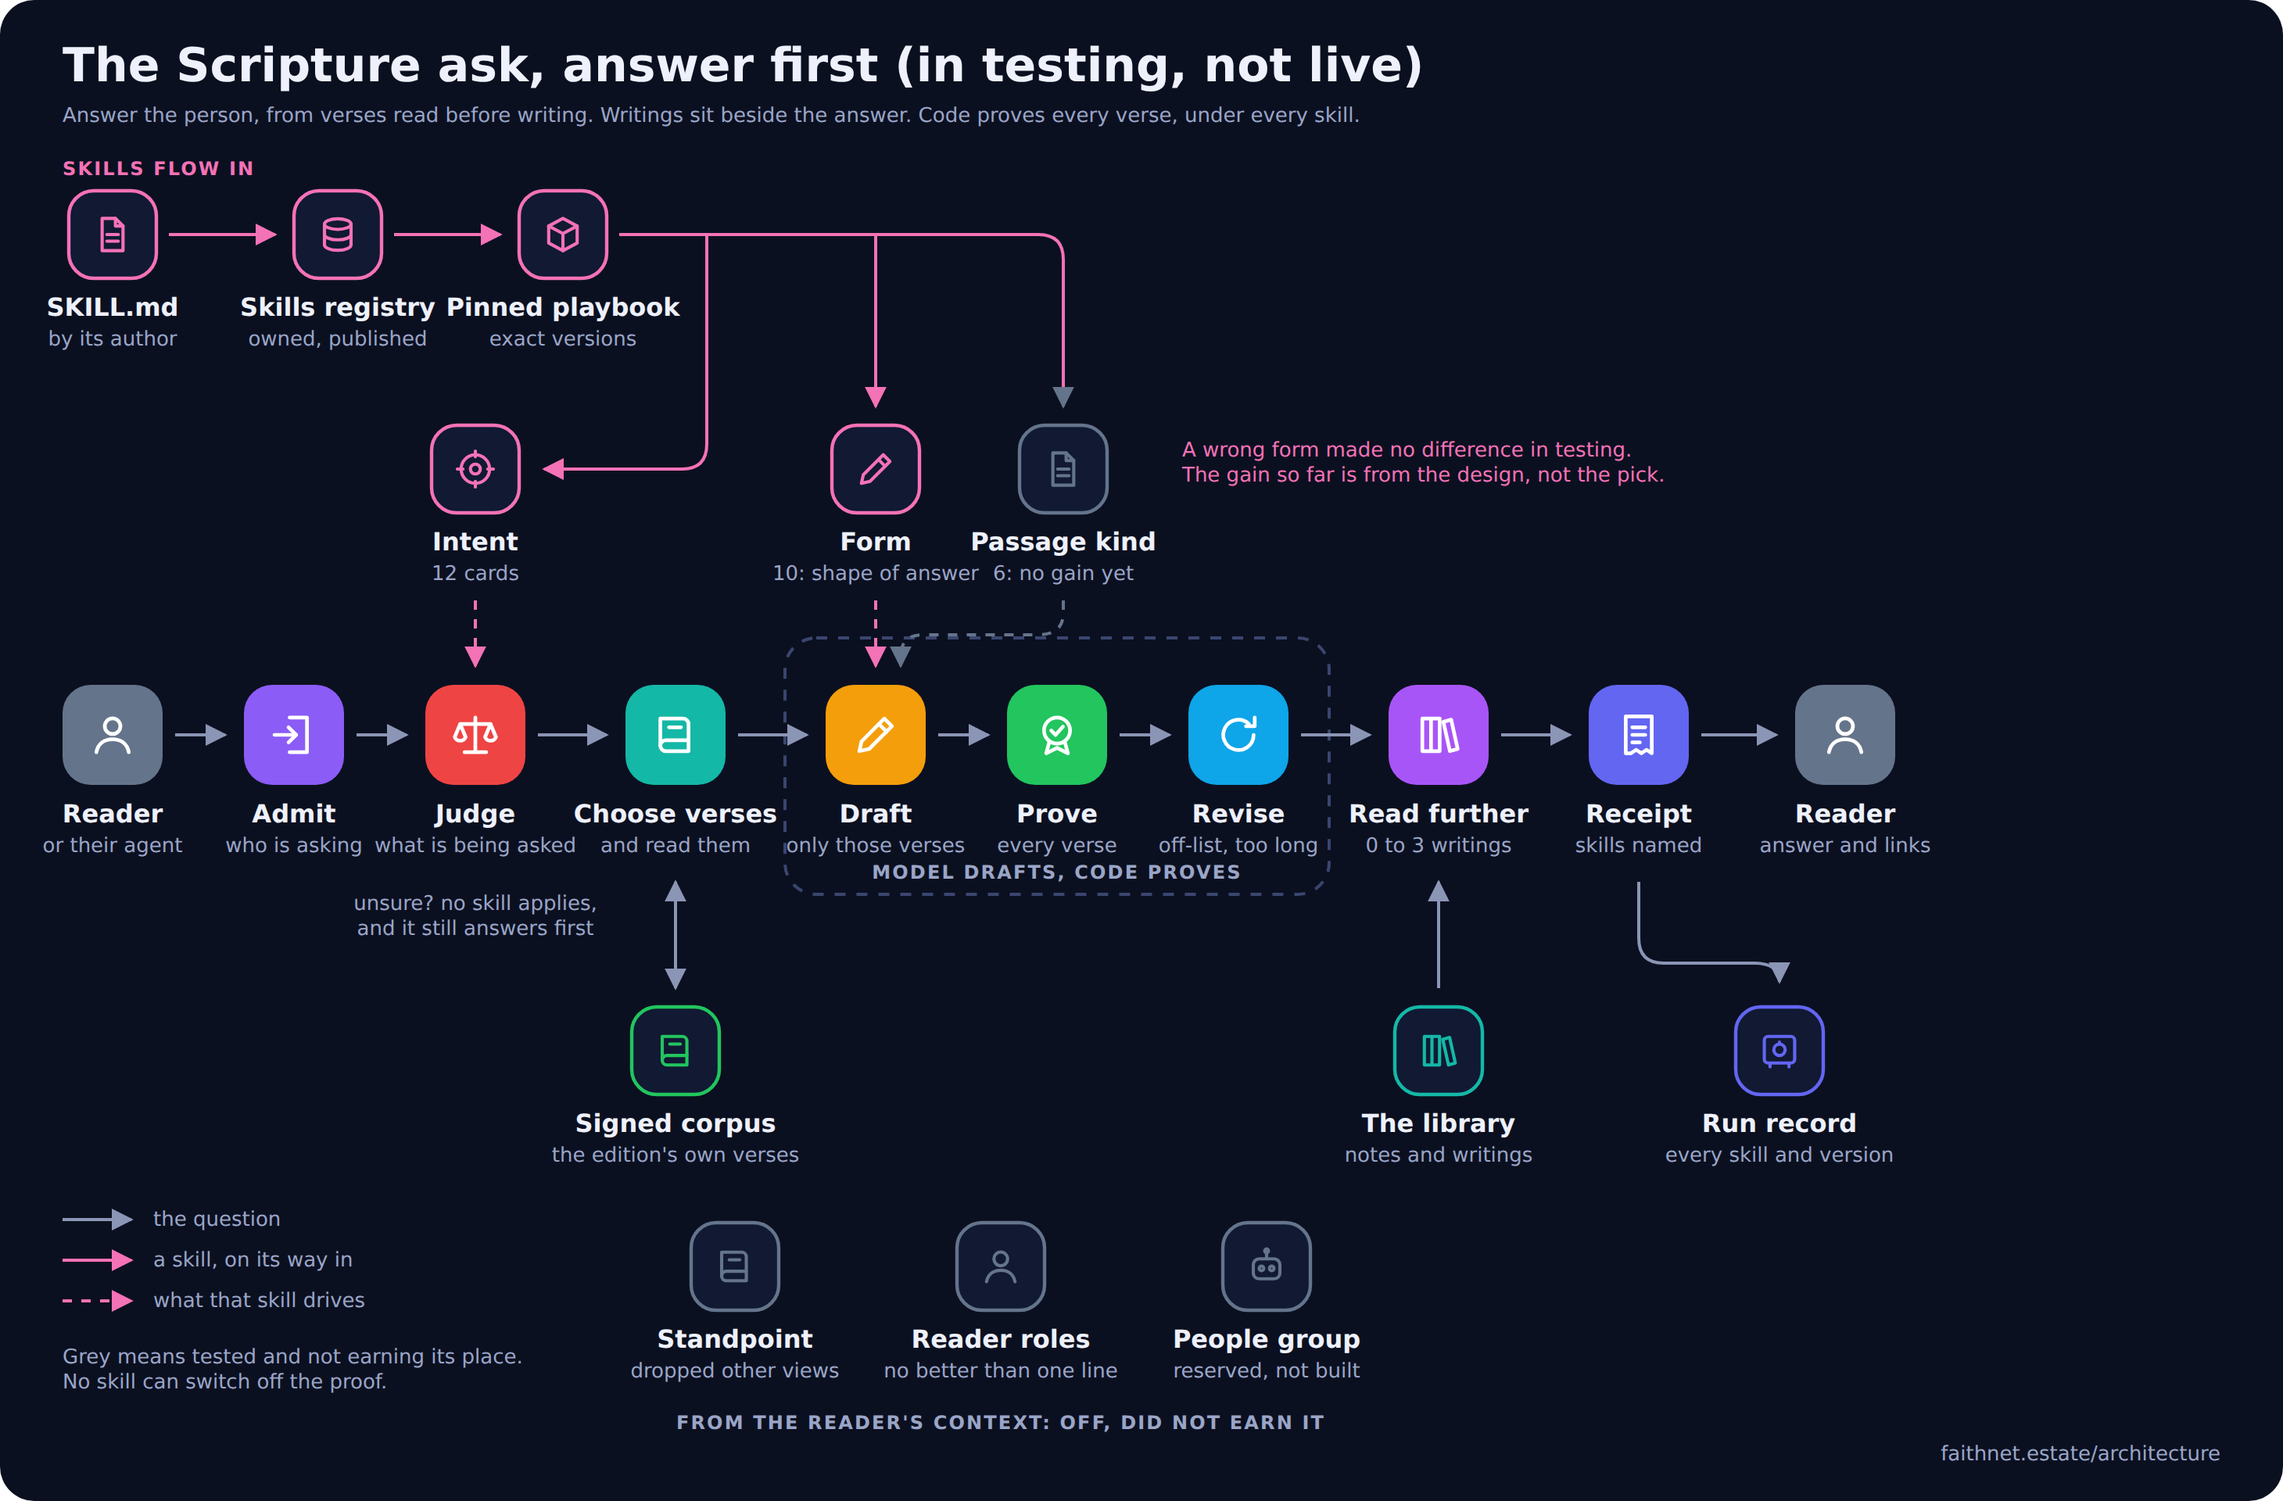
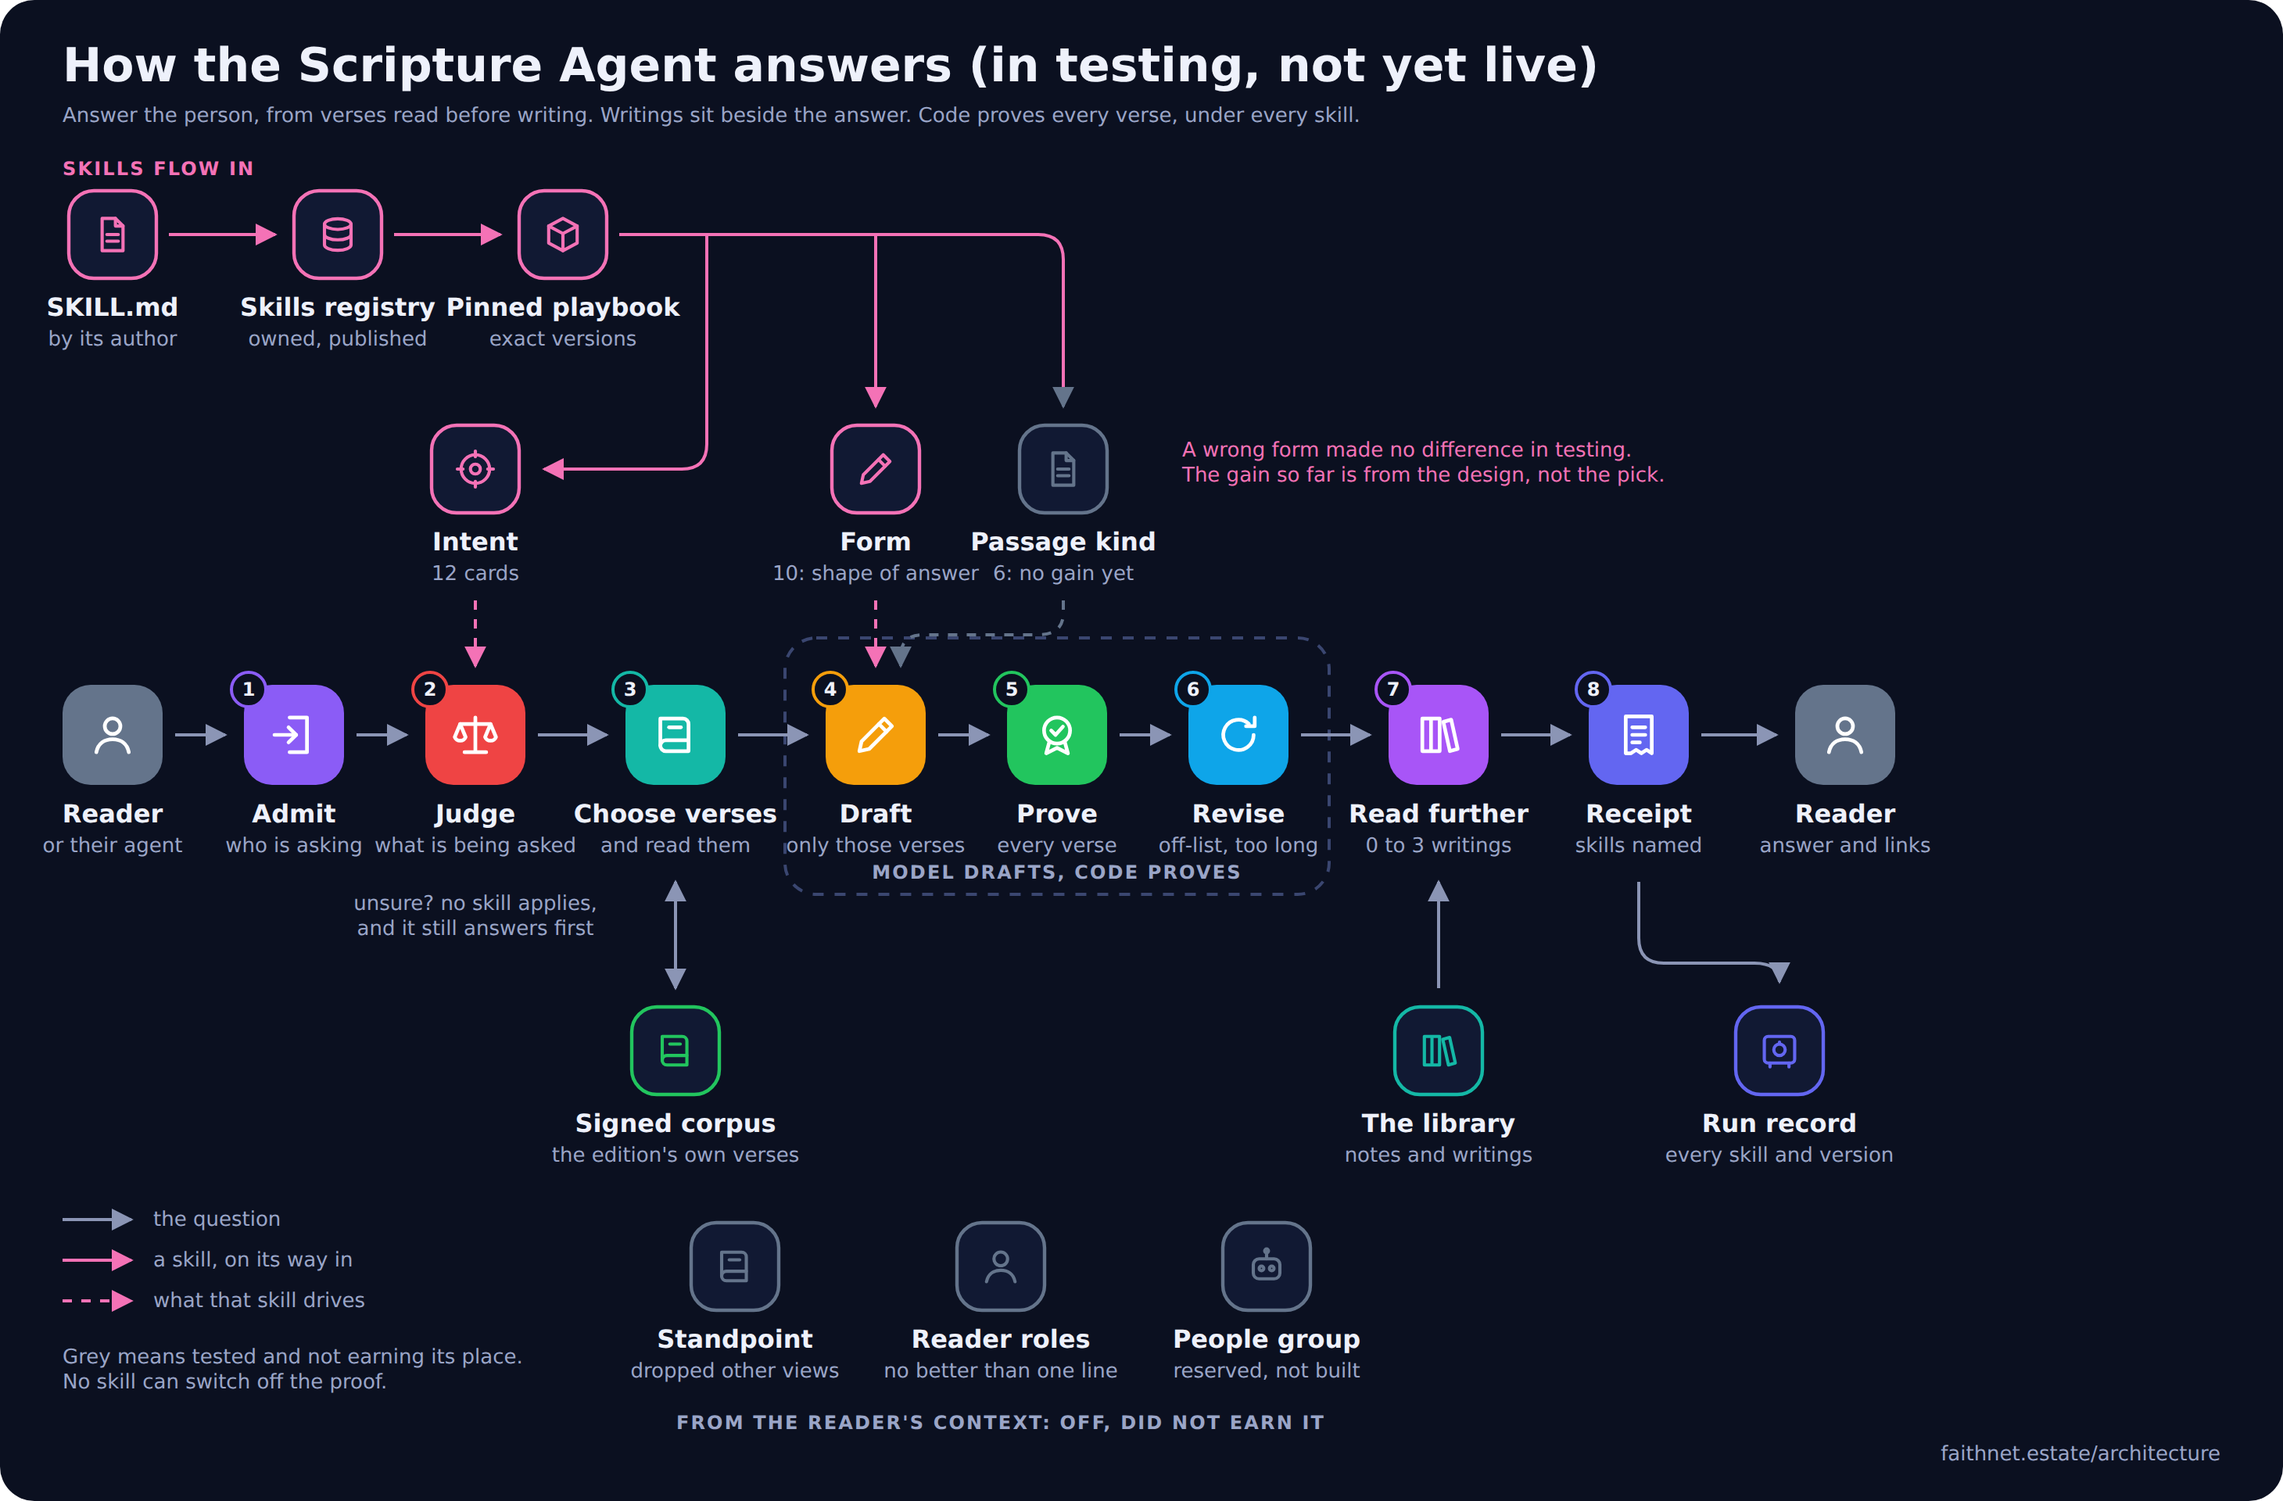
estate architecture: the Scripture post leads with the answer-first design and its eight steps, labelled in testing; what readers get today moves below it

diff --git a/apps/estate/src/architecture.ts b/apps/estate/src/architecture.ts
@@ -389,7 +389,106 @@ const SCRIPTURE_STEPS: Step[] = [
   },
 ];
 
+
+const ANSWER_ALT =
+  "A flow diagram of the design in testing, not yet live. A question goes through admission to a judge, which works out what is being asked. The verses that carry the answer are chosen and read from the signed corpus before anything is written. A model drafts, citing only those verses, and code proves every one. The draft goes back once if it cites another verse or runs long. Up to three writings that truly bear on the answer are chosen to sit beside it, and a receipt names the skills used. Skills come from the registry through a pinned playbook. Passage kinds, standpoints and reader roles are in grey: tested and not earning their place. A people-group skill is reserved and not built.";
+const inherited = (id: string, at: [number, number], over: Partial<Step> = {}): Step => ({ ...SCRIPTURE_STEPS.find((x) => x.id === id)!, at, ...over });
+const ANSWER_STEPS: Step[] = [
+  inherited('admit', [188, 470]),
+  {
+    id: 'judge', name: 'Judge', color: '#ef4444', at: [304, 470],
+    summary: 'What is the reader asking for? That chooses the skill, or none.',
+    why: 'A definition, a question about a verse, a request for practical help and a question about another religion want different answers. The judge reads the question before anything else, so the rest of the run knows what it is for.',
+    what: [
+      'One call to a small model reads the question against twelve intent cards from the playbook and gives a probability for each, and for "none". Each card names a form, which is the shape of the answer.',
+      'Code applies the rule. A clear pick supplies its form. If the judge is unsure, no skill applies and the question still runs answer first.',
+      'A reader with a verse open still goes to the short verse companion, by a rule in code, with no judge.',
+      'In testing the picks looked sensible, but a deliberately wrong skill did about as well. So the gains so far come from the design around the pick, and this step is still earning its place.',
+    ],
+    where: [SCRIPTURE, 'Source: <code>src/harness/intent-stage.ts</code> and <code>intent-rule.ts</code>. The judge is <code>selectByJudgment</code> from <code>@agenticprimitives/orchestration</code>, the same one the agent harness uses.'],
+    by: 'A small model chooses. A rule in code accepts.',
+    reads: ['The question.', 'The intent cards.'],
+    leaves: ['<code>intentStage</code>: every probability, the pick, and each skill\'s version and commitment.'],
+    stops: ['A failed call or an unreadable registry is a hold. The question is still answered.'],
+  },
+  {
+    id: 'verses', name: 'Choose verses', color: '#14b8a6', at: [432, 470],
+    summary: 'The passages that carry the answer, read before anything is written.',
+    why: 'Written from memory, answers said things about verses that the verses do not say. Choosing the verses first and handing the writer their real text took errors from 21 to 4 in a 40-question pilot. Choosing them is also a large part of what makes an answer good.',
+    what: [
+      'A small model chooses two to four passages a careful teacher would open to. It sees what search found, and may add others. Sharing a word with the question does not qualify a verse.',
+      'Code resolves each reference and fetches its text from the signed corpus, in the reader\'s edition.',
+      'A reference that does not resolve is dropped and recorded.',
+    ],
+    where: [SCRIPTURE, 'Source: <code>src/harness/answer-links.ts</code> (<code>chooseVerses</code>).', LIBRARY],
+    by: 'A small model chooses. Code fetches and verifies.',
+    reads: ['The question.', 'The passages found by meaning.', 'The signed corpus.'],
+    leaves: ['<code>chosenVerses</code>: each passage and why it was chosen, and any that did not resolve.'],
+    stops: ['If this step fails, the writer is not restricted, and the proof still checks every reference.', 'At most ten verses are read.'],
+  },
+  {
+    id: 'draft', name: 'Draft', color: '#f59e0b', at: [560, 470],
+    summary: 'Answer the person, from those verses.',
+    why: 'Our answers used to read as reports on whatever search returned. A plain question got a study of the sources, and one question was reinterpreted because of what was found. The writer now answers what was asked, as a knowledgeable teacher would to a friend.',
+    what: [
+      'The writer takes the question in its plain meaning, gives the answer in the first sentence, then the few things most worth knowing. It takes a clear position, and uses what is well established in Scripture and Christian teaching.',
+      'It may cite only the verses chosen, and must not say a verse says more than its words do.',
+      'It does not mention sources or what it was given, and adds no study exercise and no closing summary.',
+      'The chosen form sets the shape of the answer: a definition, counsel with steps, a short list of verses.',
+    ],
+    where: [SCRIPTURE, 'Source: <code>src/harness/draft-prove.ts</code> (<code>ANSWER_FIRST</code>).'],
+    by: 'One model call.',
+    reads: ['The question.', 'The chosen verses, in the edition\'s own words.', 'The chosen form.'],
+    leaves: ['The draft.'],
+    stops: ['A draft cut off by the output limit fails the run and is not shown.'],
+  },
+  inherited('prove', [676, 470]),
+  {
+    id: 'revise', name: 'Revise', color: '#0ea5e9', at: [792, 470],
+    summary: 'Back to the writer when code finds a problem.',
+    why: 'The writer does not reliably follow what it is only told. It ran well past the length it was given. Code can see these failures, so code sends them back.',
+    what: [
+      'The draft goes back once if the proof found a problem, if it cites a verse that was not chosen, if it talks about what it was supplied, or if it runs well over length.',
+      'If a quoted word is still not in the verse it cites, one more call deals with that alone.',
+      'A revision is proved again, and kept only if it is no worse.',
+    ],
+    where: [SCRIPTURE, 'Source: <code>src/harness/draft-prove.ts</code> and <code>answer-links.ts</code>.'],
+    by: 'A model call, only when needed. The decision to keep it is code.',
+    reads: ['The problems found.', 'The cited verses\' own text.'],
+    leaves: ['<code>revised</code> and <code>wordRepair</code>: the problems before and after, and whether the change was kept.'],
+    stops: ['What still fails is stated on the receipt.'],
+  },
+  {
+    id: 'further', name: 'Read further', color: '#a855f7', at: [920, 470],
+    summary: 'Up to three writings that truly bear on the answer, or none.',
+    why: 'The library is what this agent has that others do not, but it was crowding the answer. Moved beside the answer, a writing can be chosen against what the answer actually says, and given a reason.',
+    what: [
+      'After the answer is proved, a small model looks at the writings found and chooses at most three that are truly about what was asked, each with one line on what the reader will find there.',
+      'None is an acceptable result: an unrelated link is worse than no link.',
+      'Neither the writer nor the proof depends on them. In the pilot, 4 of 85 chosen writings were graded off-topic.',
+    ],
+    where: [SCRIPTURE, 'Source: <code>src/harness/answer-links.ts</code> (<code>chooseWritings</code>).', LIBRARY],
+    by: 'A small model.',
+    reads: ['The question and the answer.', 'The writings found, with their excerpts.'],
+    leaves: ['<code>readFurther</code>: each writing, where to find it and why.'],
+    stops: ['If this step fails, the answer simply has no list.'],
+  },
+  inherited('receipt', [1048, 470], { what: [
+    'Every answer carries a run manifest (<code>ask-run/2</code>): the run\'s id, the edition, the configuration and its hash, and the versions of the code, the policy and the writer. The question is recorded as a hash.',
+    'With it come the signed citations, the proof, the judge\'s choice and each skill\'s version and commitment, the verses chosen and why, what was revised, the cost, and the time each stage took.',
+    "The run is kept at the agent, and its provenance is written to the agent's vault. Anyone can check a citation at <code>/verify</code>.",
+  ] }),
+];
+
 const SCRIPTURE_BODY = `
+<h2>Where this stands</h2>
+<p>As of 5 November 2026, the picture and steps above are the design we are testing. They are not yet what answers readers. A 300-question run on fresh questions is under way, and the design goes live only if it holds up.</p>
+
+<h2>What readers get today</h2>
+<p>Today's path reads what it holds first and writes from that. It has ten steps: admit, route, choose a plan, gather, gate, draft, prove, revise, enrich and receipt. A judge chooses one answer plan or none while the agent gathers. Writings are handed to the writer, and more are added to the answer after the proof.</p>
+<figure class="picture"><a href="/architecture/scripture-ask-flow.svg"><img src="/architecture/scripture-ask-flow.svg" width="1460" height="900" alt="${SCRIPTURE_ALT.replace(/"/g, '&quot;')}"></a>
+<figcaption>What answers readers today. Grey arrows are the question. Pink arrows are a skill on its way in. Dashed arrows happen only when needed.</figcaption></figure>
+
 <h2>Where skills come in</h2>
 <p>The Scripture Agent's skills are documents in the skills registry, under the <code>scripture</code> domain. Nothing is compiled into the agent: it reads them when a question arrives, so a newly published version reaches readers within a minute, with no deploy.</p>
 <p>A skill is admitted only if all three of these hold. A skill that fails one is refused, and listed with the reason.</p>
@@ -406,9 +505,7 @@ const SCRIPTURE_BODY = `
 </ul>
 
 <h2>The categories of skills that drive it</h2>
-<p>As of 5 November 2026, two kinds of skill shape live answers: the method for a verse, and one answer plan. The rest of the table is built and in testing. It is not live and not yet in the registry. The picture shows the design being tested: the answer comes first, from verses chosen and read before writing.</p>
-<figure class="picture"><a href="/architecture/scripture-intent-flow.svg"><img src="/architecture/scripture-intent-flow.svg" width="1460" height="960" alt="The Scripture ask as it is being built. A question goes through admission to a judge. The verses that carry the answer are chosen and read before anything is written. A model drafts, citing only those verses, and code proves every one. Up to three writings are chosen to sit beside the answer, and a receipt names the skills used. Passage kinds, standpoints and reader roles are shown in grey: tested and not earning their place."></a>
-<figcaption>The design in testing. It is not what answers readers today; the picture at the top of this page is. Pink arrows are skills. Dashed arrows show what each skill drives. Grey means tested and not earning its place.</figcaption></figure>
+<p>As of 5 November 2026, two kinds of skill shape live answers: the method for a verse, and one answer plan. The rest of the table is built and in testing. It is not live and not yet in the registry. The picture at the top shows the design being tested.</p>
 <div class="table-wrap"><table class="skills-table">
 <thead><tr><th>Category</th><th>What it decides</th><th>Chosen by</th><th>Drives</th><th>How many</th><th>State</th></tr></thead>
 <tbody>
@@ -466,7 +563,7 @@ const SCRIPTURE_BODY = `
 <p>Every other agent in this estate answers through <a href="/architecture/agent-harness">the agent harness</a>. The Scripture Agent uses the same judge and the same kind of skill, in a different shape.</p>
 <ul>
 <li><b>It only reads.</b> It makes no payment and sends no message, so there is no mandate to check at each step. Proof takes the place that authority has in the agent harness.</li>
-<li><b>Its plan is one step.</b> The host plans a single step and the flow in this picture runs inside it. The judge chooses how that step answers, not which step to run.</li>
+<li><b>Its plan is one step.</b> The host plans a single step and the flow in these pictures runs inside it. The judge chooses how that step answers, not which step to run.</li>
 <li><b>It reads the newest published skill.</b> The agent harness pins a skill by digest through a playbook its custodian assigned. Here the owner and the commitment are checked, and the newest published version is used.</li>
 </ul>`;
 
@@ -1409,12 +1506,12 @@ export const POSTS: Post[] = [
     title: 'How the Scripture Agent answers a question',
     date: '2026-11-05',
     description:
-      'The path a question takes through the Scripture Agent, the categories of skills that drive it, the answer-first design in testing, and what we tested that did not work.',
+      'The answer-first design being tested for the Scripture Agent: the verses chosen before writing, code proving every one, the writings beside the answer. Also what readers get today, the categories of skills, and what we tested that did not work.',
     picture: {
-      svg: '/architecture/scripture-ask-flow.svg', png: '/architecture/scripture-ask-flow.png', alt: SCRIPTURE_ALT, width: 1460, height: 900,
-      caption: 'Grey arrows are the question. Pink arrows are a skill on its way in. Dashed arrows happen only when needed.',
+      svg: '/architecture/scripture-intent-flow.svg', png: '/architecture/scripture-intent-flow.png', alt: ANSWER_ALT, width: 1460, height: 960,
+      caption: 'The design in testing, not yet live. Grey arrows are the question. Pink arrows are a skill on its way in. Grey tiles were tested and have not earned their place.',
     },
-    steps: SCRIPTURE_STEPS,
+    steps: ANSWER_STEPS,
     body: SCRIPTURE_BODY,
   },
   {
